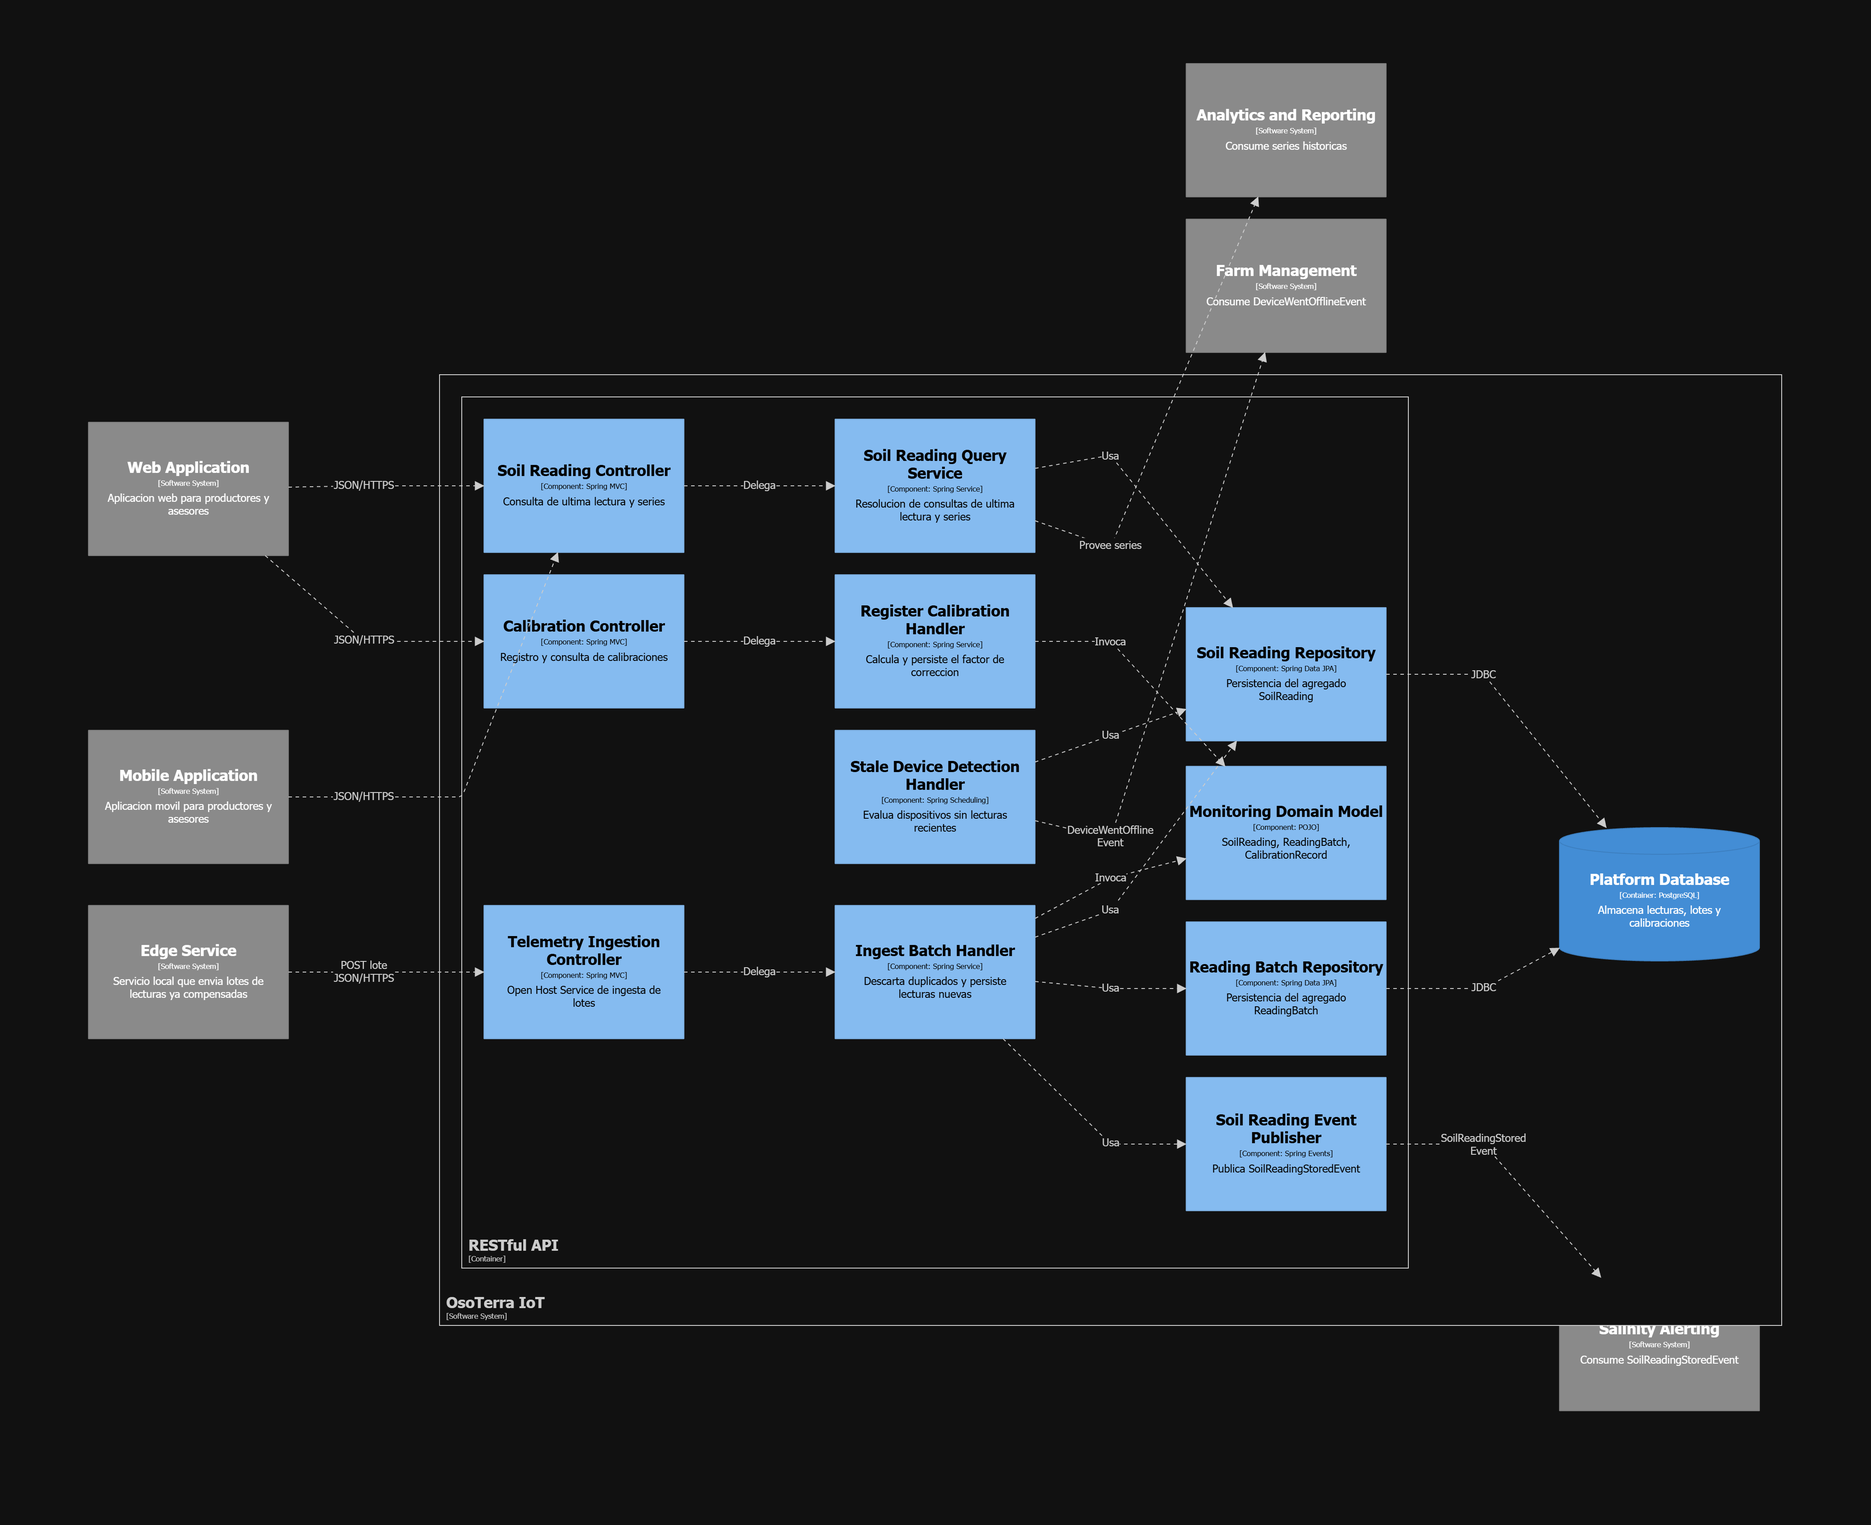
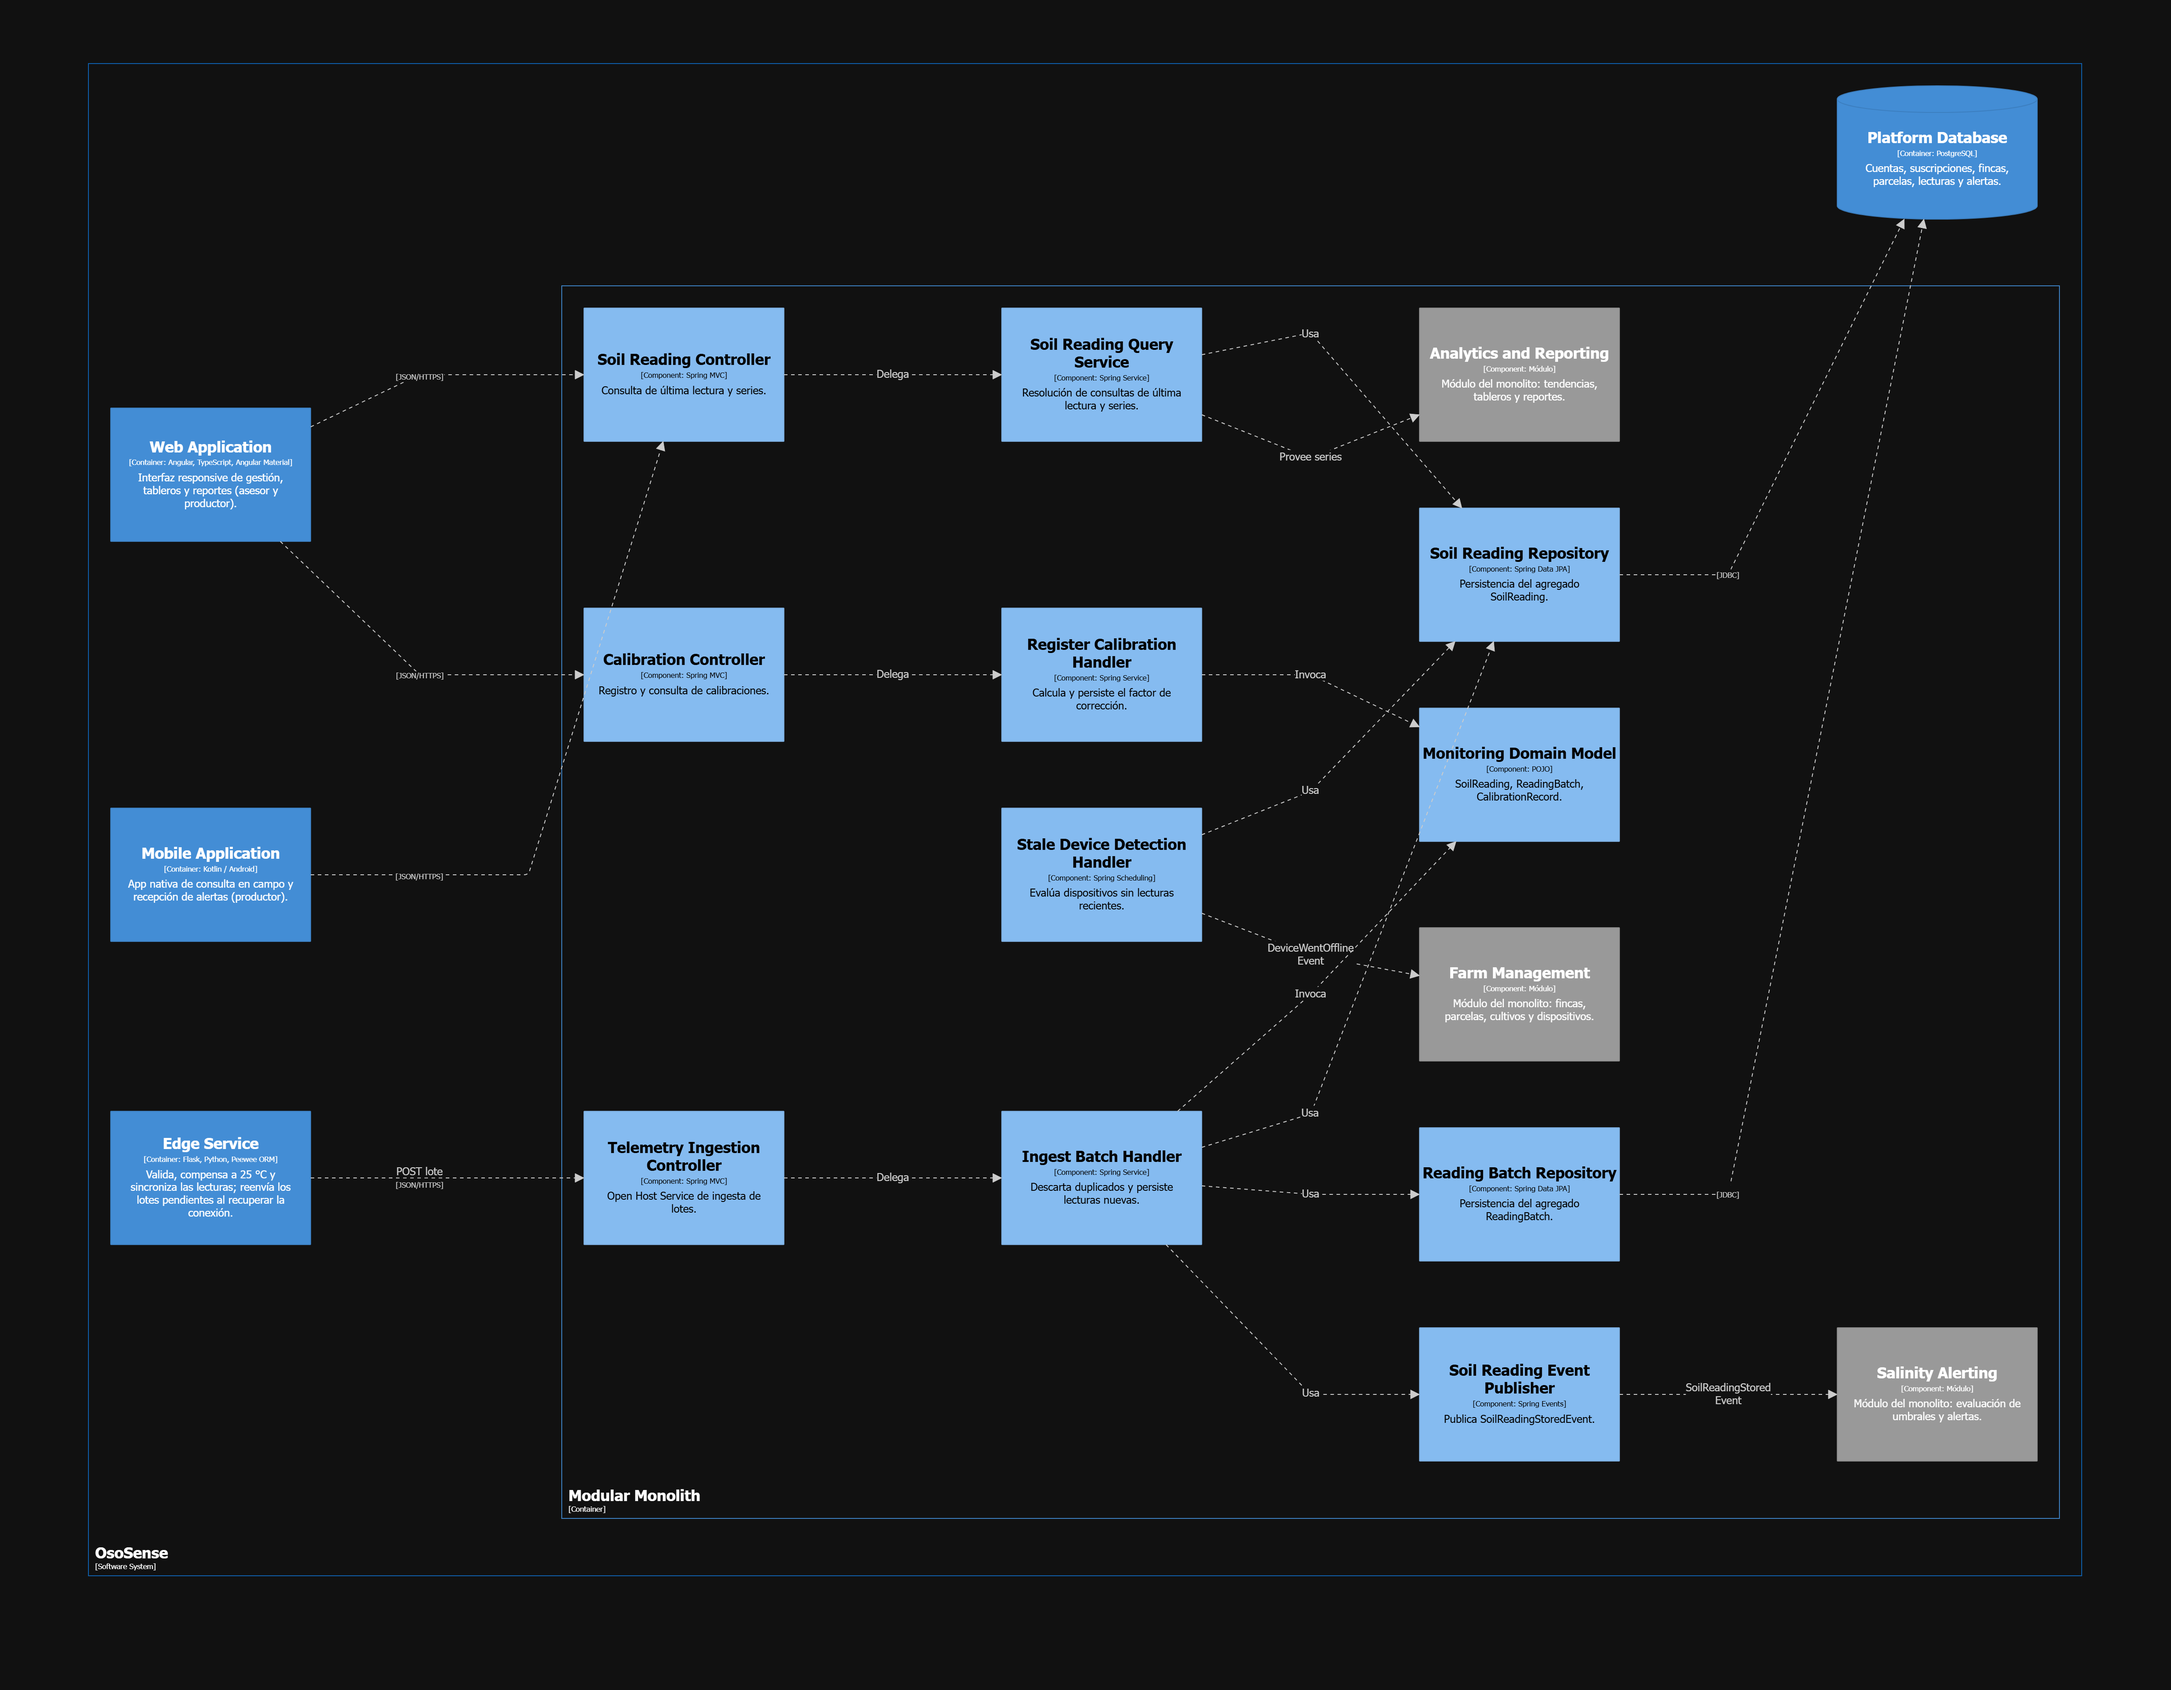
docs(chapter-4): rebuild component diagrams inside modular monolith

diff --git a/chapters/chapter4.md b/chapters/chapter4.md
@@ -716,7 +716,7 @@ Definidos los límites y las relaciones entre contextos en la sección anterior,
 
 Cada contexto se documenta con la misma estructura, derivada de la arquitectura por capas propuesta por el Domain-Driven Design. La **capa de dominio** concentra las reglas de negocio y el modelo conceptual —aggregate roots, entidades, value objects, enumeraciones y domain services— sin dependencia alguna de infraestructura. La **capa de interfaz** expone las capacidades del contexto hacia el exterior mediante controladores REST y transformadores de recursos. La **capa de aplicación** orquesta los casos de uso coordinando el dominio con los servicios de infraestructura, sin contener reglas de negocio propias. La **capa de infraestructura** implementa la persistencia y la integración con sistemas externos mediante repositorios y adaptadores.
 
-A esa descripción por capas se suman, en cada contexto, el **Component Level Diagram**, que corresponde al tercer nivel del modelo C4 y muestra los componentes internos del contexto y sus dependencias, y los **Code Level Diagrams**, que descienden al cuarto nivel con el diagrama de clases de la capa de dominio y el diseño de la base de datos.
+A esa descripción por capas se suman, en cada contexto, el **Component Level Diagram**, que corresponde al tercer nivel del modelo C4 y muestra los componentes internos del contexto y sus dependencias, y los **Code Level Diagrams**, que descienden al cuarto nivel con el diagrama de clases de la capa de dominio y el diseño de la base de datos. Los Component Diagrams forman parte del mismo modelo en Structurizr DSL que las vistas de 4.1.3 (`assets/strategic-ddd/c4/ososense.dsl`). Cada uno se ubica dentro del contenedor **Modular Monolith** o, en el caso del lado de campo de Soil Monitoring, dentro del **Edge Service**. Los demás bounded contexts con los que se comunica aparecen en gris como **módulos del mismo monolito**, no como sistemas externos.
 
 La uniformidad de esta estructura es deliberada: permite comparar contextos entre sí y facilita que distintos integrantes del equipo trabajen en paralelo sobre contextos diferentes manteniendo la coherencia del documento.
 

diff --git a/versions.md b/versions.md
@@ -108,6 +108,7 @@
 | 0.0.102 | 29/09/2026 | Andreow Jomark Santiago Peña | Capítulo IV: base de datos de la plataforma corregida a PostgreSQL (la que usa el RESTful API) en el texto de 4.1.3, el Structurizr DSL y los diagramas de contenedores y de despliegue. |
 | 0.0.103 | 29/09/2026 | Andreow Jomark Santiago Peña | Contenido: índice actualizado con el Capítulo VI (6.1 y Sprint 1) y los títulos vigentes de la guía de estilo web. |
 | 0.0.104 | 06/10/2026 | Andreow Jomark Santiago Peña | Capítulo IV: el contenedor de backend se presenta como Modular Monolith (no como RESTful API) en el Structurizr DSL, los diagramas de contenedores y de despliegue y el texto del capítulo. |
+| 0.0.105 | 06/10/2026 | Andreow Jomark Santiago Peña | Capítulo IV: Component Diagrams de los seis bounded contexts y del Edge Service rehechos en el Structurizr DSL del C4, dentro del contenedor Modular Monolith y con los demás contextos como módulos. |
 
 <div style="page-break-before: always; break-before: page;"></div>
 
